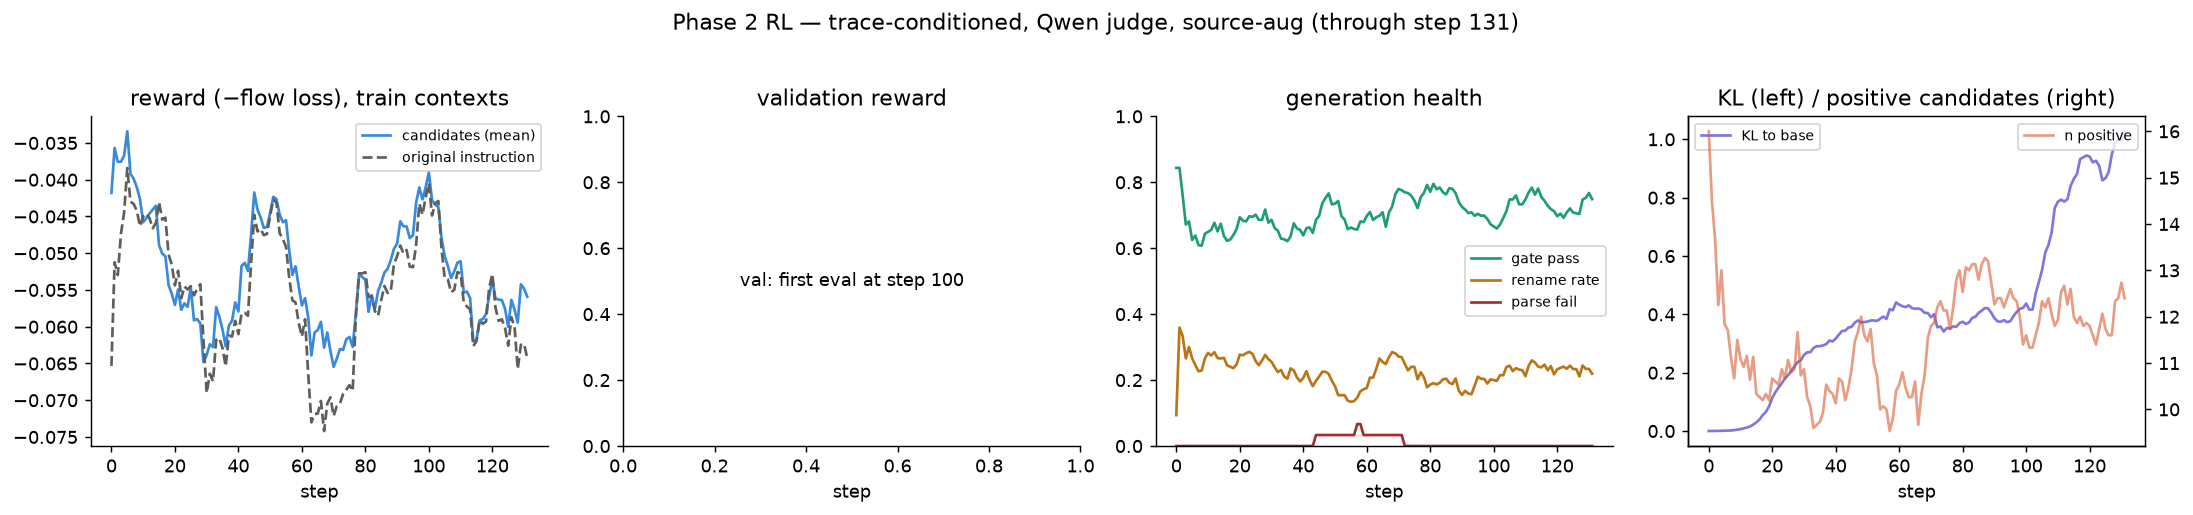
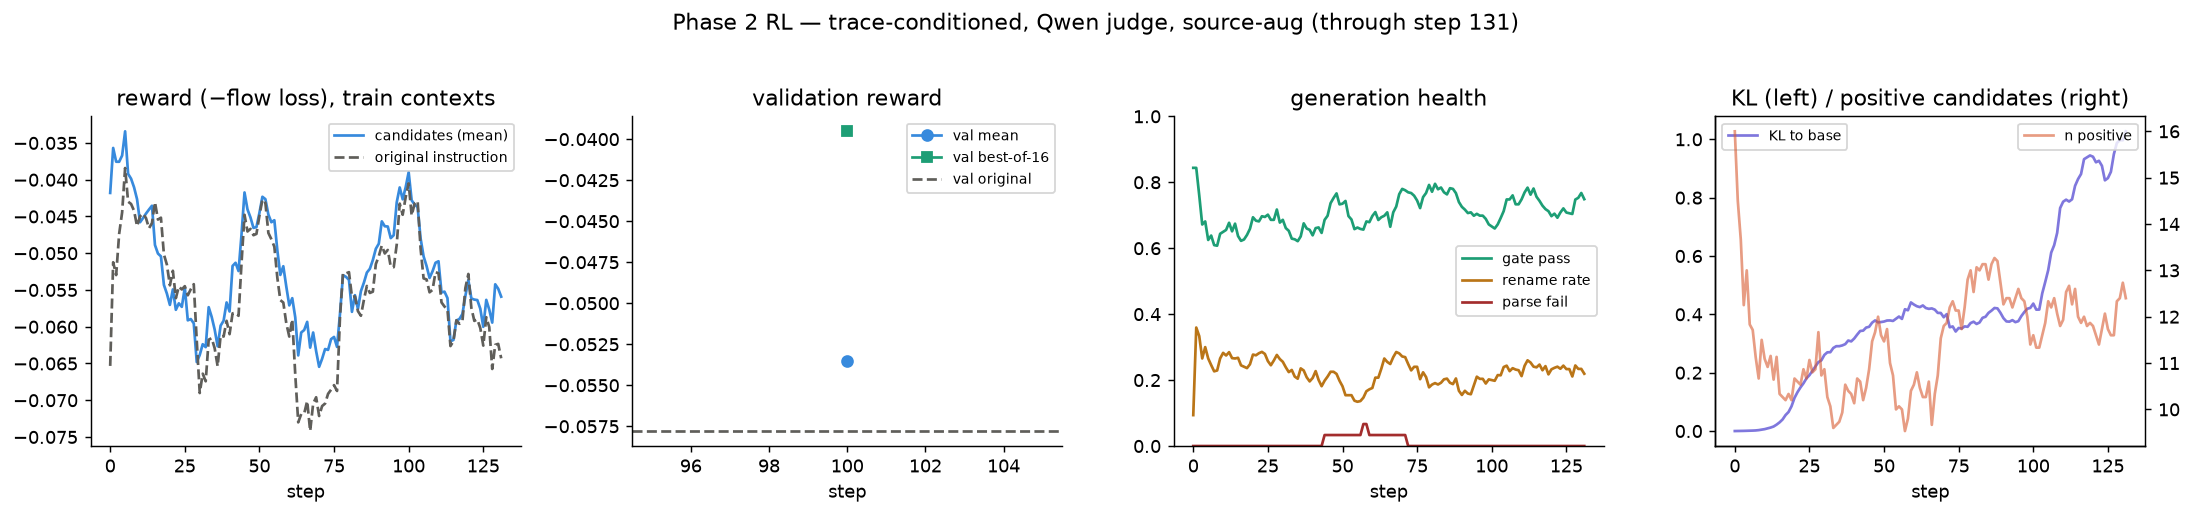
curves: correct val record keys; render through step 131

diff --git a/src/phrase_rl/phase2_curves.py b/src/phrase_rl/phase2_curves.py
@@ -21,7 +21,7 @@ def main():
 
     rows = [json.loads(l) for l in open(args.log) if l.strip()]
     steps = pd.DataFrame([r for r in rows if "sec" in r and r.get("n_ok")])
-    vals = pd.DataFrame([r for r in rows if r.get("val")]) if any(r.get("val") for r in rows) else pd.DataFrame()
+    vals = pd.DataFrame([r for r in rows if r.get("type") == "val"])
 
     def smooth(x, w=15):
         return pd.Series(x).rolling(w, min_periods=1).mean()
@@ -33,9 +33,9 @@ def main():
     ax[0].set(title="reward (−flow loss), train contexts", xlabel="step"); ax[0].legend(fontsize=8)
 
     if len(vals):
-        ax[1].plot(vals["step"], vals["val_mean_reward"], marker="o", color="#378ADD", label="val mean")
-        if "val_best_reward" in vals: ax[1].plot(vals["step"], vals["val_best_reward"], marker="s", color="#1D9E75", label="val best-of-16")
-        if "val_orig_reward" in vals: ax[1].axhline(vals["val_orig_reward"].iloc[-1], color="#5F5E5A", ls="--", label="val original")
+        ax[1].plot(vals["step"], vals["mean_reward"], marker="o", color="#378ADD", label="val mean")
+        ax[1].plot(vals["step"], vals["mean_best_reward"], marker="s", color="#1D9E75", label="val best-of-16")
+        ax[1].axhline(vals["mean_orig_reward"].iloc[-1], color="#5F5E5A", ls="--", label="val original")
         ax[1].legend(fontsize=8)
     else:
         ax[1].text(0.5, 0.5, "val: first eval at step 100", ha="center", va="center", transform=ax[1].transAxes)
